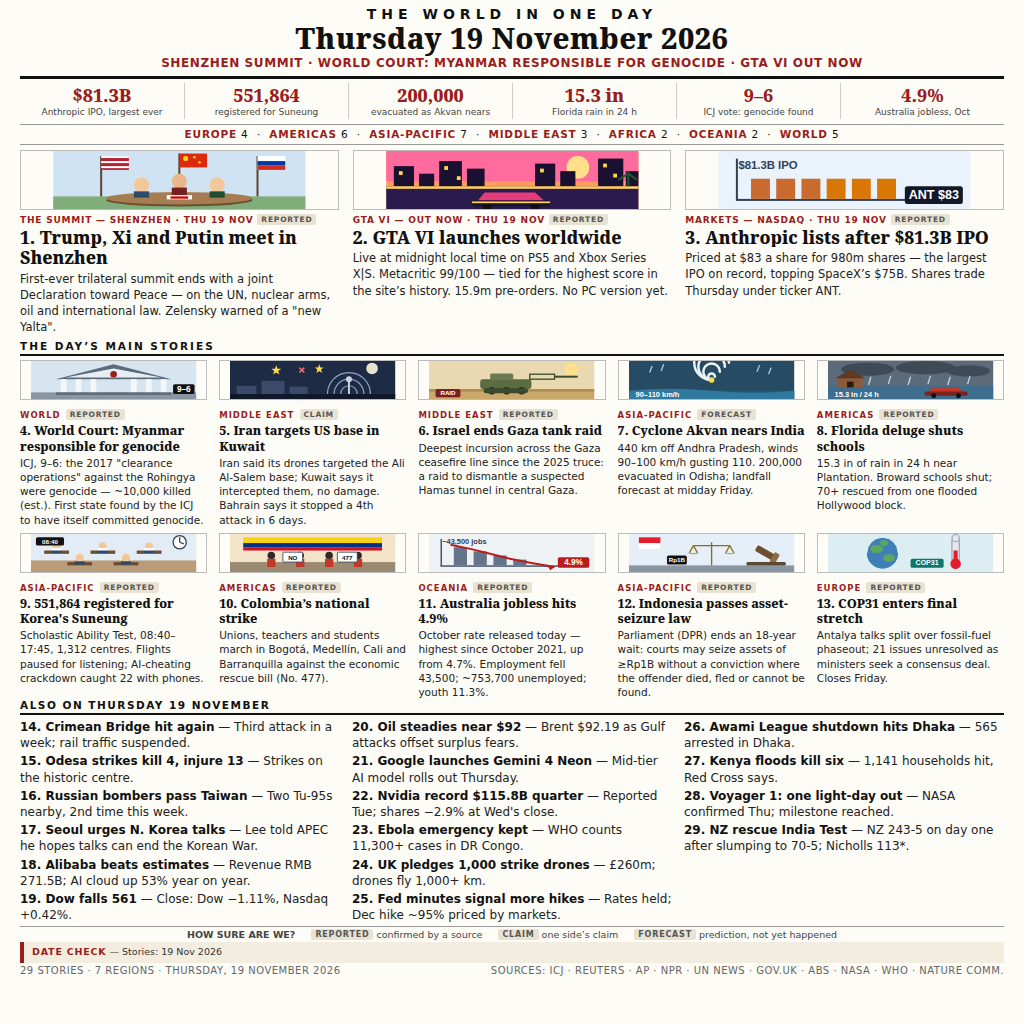
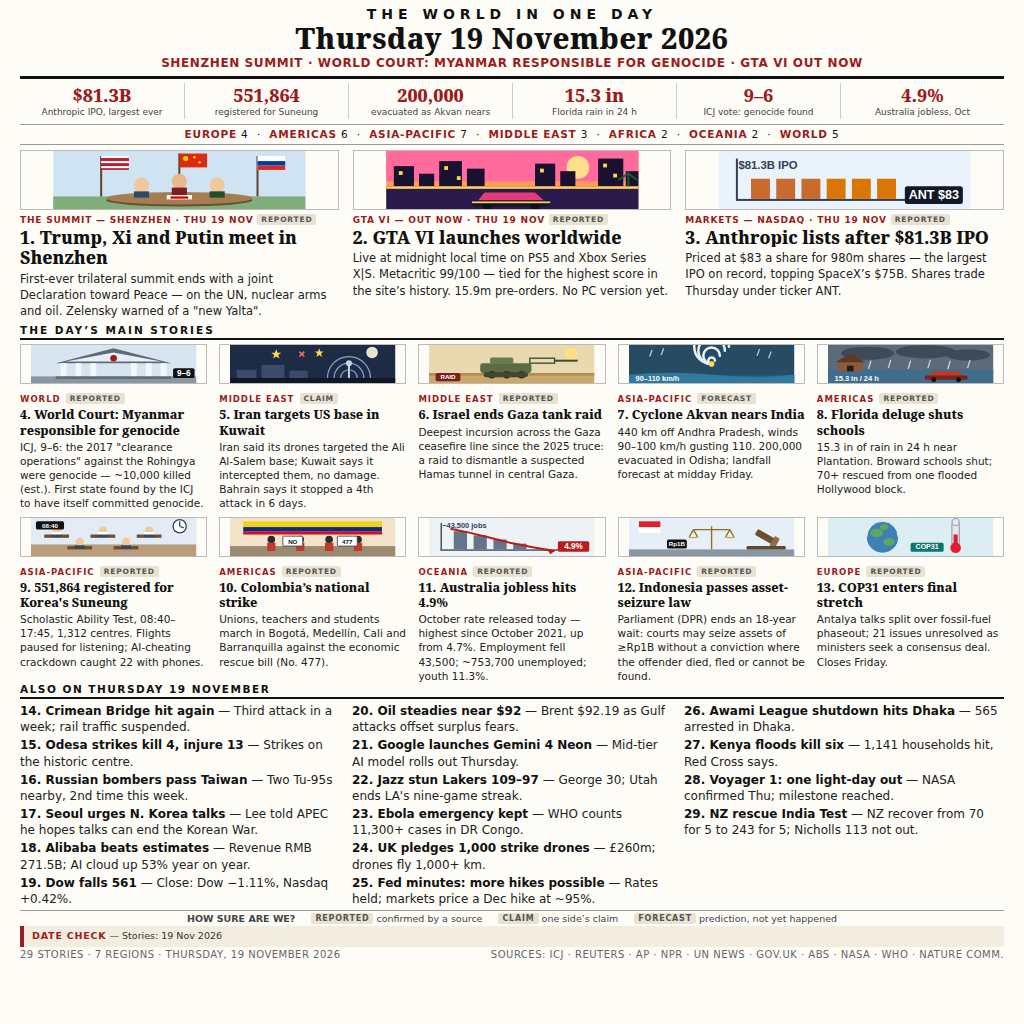
Rev4 per Claude round-4 REVISI: replace Nvidia brief with Jazz-Lakers (Thu), plain-words cricket, Fed headline/body agree, lead 1 exactly 3 lines (measured)

Changed region(s): [[0.0, 0.2812, 0.9688, 0.9688]]

diff --git a/GATE-RECORD.md b/GATE-RECORD.md
@@ -221,3 +221,11 @@ against the 21 Nov 07:00 WIB deadline and the 19-submission budget.
 - Jargon decoded: item 29 "NZ 243-5 on day one after slumping to 70-5; Nicholls 113*"; Ebola country added (DR Congo, verified) + NRC quote dropped (spelled-out form clipped at 12px; Claude's own fallback); tile 12 "Parliament (DPR)" + icon "Rp1B"; tile 10 "economic rescue bill (No. 477)"; item 26 "Awami League shutdown hits Dhaka".
 - Legibility: Also text 11px -> 12px (guard passes, no clipping, no cut items); lead 1 body already 3 lines, unchanged.
 - No news fact or number changed; nothing invented.
+
+## Revision 4 (Claude round-4 REVISI — "With items 22 and 29 fixed, I'd call it GO")
+- Item 22 REPLACED: Nvidia brief removed entirely (earnings Tue 17 Nov evening, −2.9% at Wed 18 Nov close — openly Tue/Wed news under "Also on Thursday 19 November", the one remaining criterion-1 risk). Replacement: "Jazz stun Lakers 109–97 — George 30; Utah ends LA's nine-game streak." Verified Thursday: Reuters NBA roundup dated 19 Nov 2026 (batch-science-culture-sports.md §7); game played Wednesday night US time, reported 19 Nov — the same "reported 19 Nov" pattern as the Dow and Odesa items already in the entry. Same region AMERICAS as Nvidia, so no recount: EUROPE 4 · AMERICAS 6 · ASIA-PACIFIC 7 · MIDDLE EAST 3 · AFRICA 2 · OCEANIA 2 · WORLD 5 = 29. No "Nvidia" string remains in stories.json or tools/render.py.
+- Item 29 rewritten in plain words: "NZ recover from 70 for 5 to 243 for 5; Nicholls 113 not out." Numbers verified against stories.json (243-5, 70-5, 113*). Note: Claude's verbatim suggestion ("NZ recover to 243 for 5 on day one of the India Test after being 70 for 5; Nicholls unbeaten on 113.") is 105 chars and clipped at 12px (3 lines vs the brief clamp2) — the layout guard caught it. Compressed to the same facts in 59 chars; all numbers identical, no shorthand.
+- Item 25 headline/body reconciled per Claude: headline "Fed minutes: more hikes possible", body "Rates held; markets price a Dec hike at ~95%." (~95% verified in stories.json and batch-markets-tech.md.)
+- Lead 1 cut to EXACTLY 3 lines, measured (not eyeballed): baseline render measured 4 lines via Range.getClientRects — the rev3 note claiming "already 3 lines" was wrong. Dropped "international law" ("...on the UN, nuclear arms and oil. Zelensky warned of a \"new Yalta\"."); re-measured: exactly 3 lines. Heroes 2 and 3 also 3 lines; brief 29 measures 2 lines.
+- No news fact or number changed; nothing invented. Render: tools/render.py layout guard passes (no overflow, no clipped text). New entry.png 1024×1024, 322,590 bytes, sha256 ed6d3327933e632ec033de0431bf9eab7bb7a2c410f4c506aa690d200c703a95 — rendered twice, identical bytes. Viewed full-size + at 300px: masthead, hero and tile headlines legible at 300px; no garbled/truncated text.
+- Status: REVISION BUILT ONLY. No bundle, no submit. Submit needs bos's separate explicit "submit". Entries close 21 Nov 2026 07:00 WIB.
